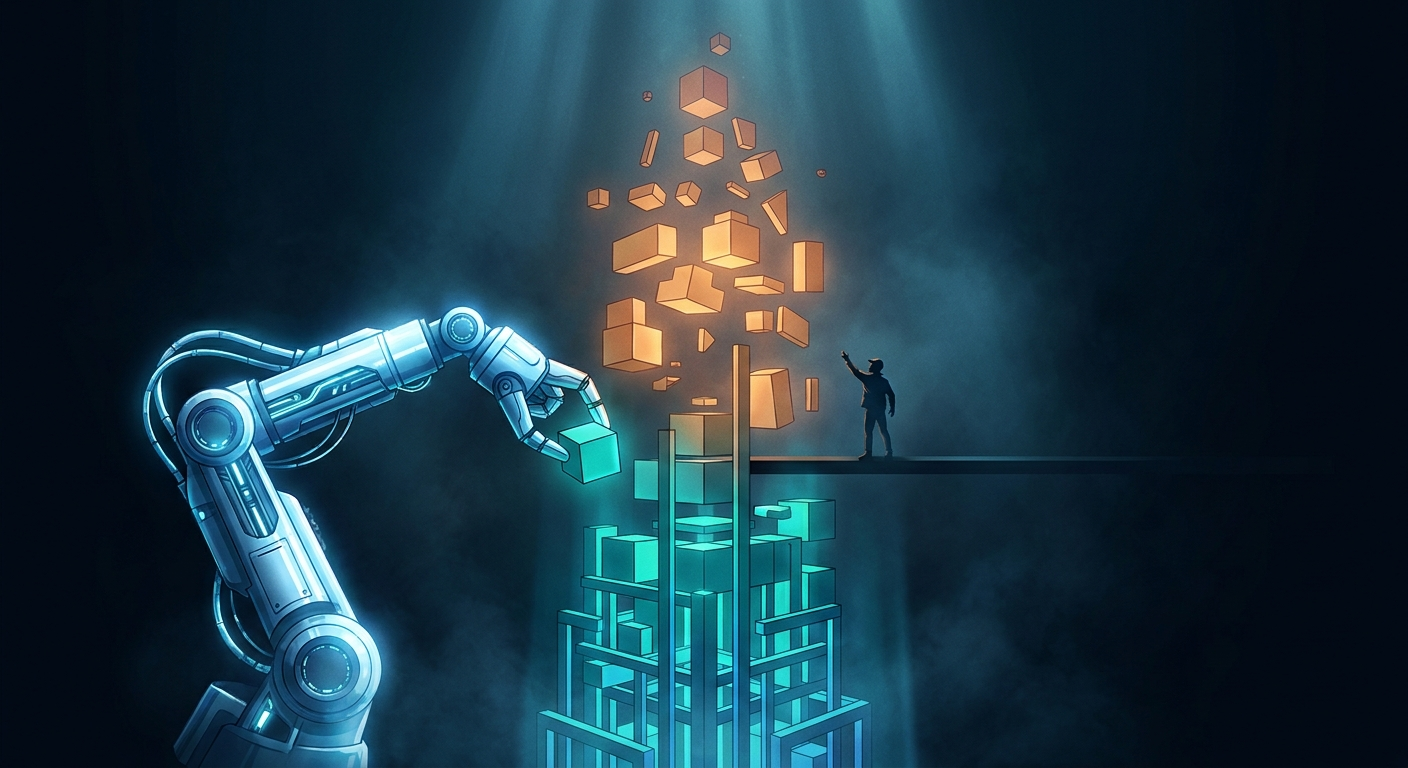
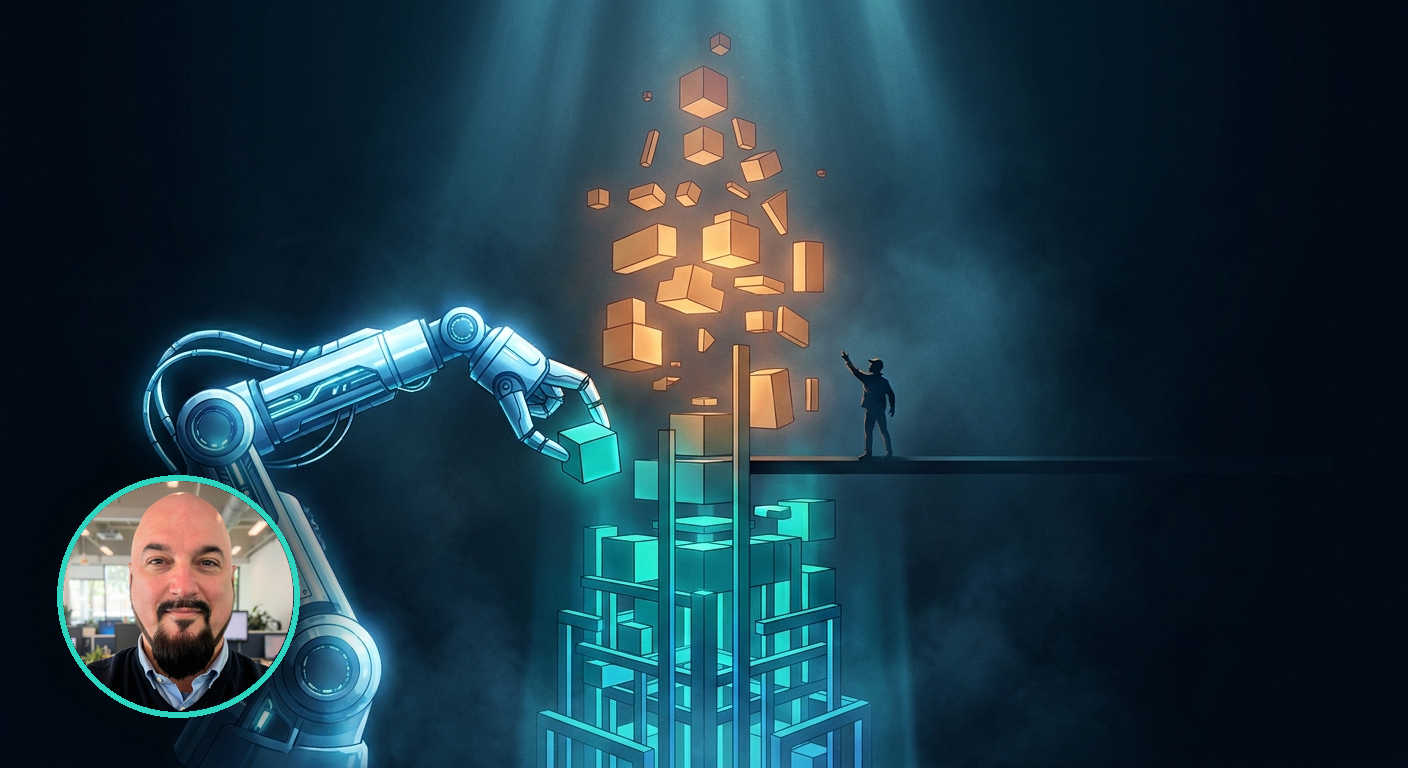
Point the number badges at evidence, and put the author on the hero
Truthfulness:
- The CNCF-components badge linked to #what-got-built, a narrative section
  that never enumerates 27. It now points at the BUILD-SPEC section that
  shows the arithmetic (21 scored ArgoCD Applications + 4 foundation +
  2 pattern = 27), so a reader can actually check the headline number.
- The EKS-clusters badge linked to kcd-texas-provisioning-README.md, which
  does not contain the figure 62. It now points at the infrastructure
  section, which states and explains it.

Presentation:
- Composite the author portrait onto the README hero, cropped to head and
  shoulders rather than to the source photo, over a blurred plate with a
  palette accent ring.

Changed region(s): [[0.0312, 0.5625, 0.25, 0.9688]]

diff --git a/README.md b/README.md
@@ -8,10 +8,10 @@ Delivered at **[KCD Texas 2026](https://kcd-texas-2026.sessionize.com/session/11
 
 [![Event](https://img.shields.io/badge/KCD_Texas-15_May_2026-0b7285)](https://kcd-texas-2026.sessionize.com/session/1149914)
 [![Phases](https://img.shields.io/badge/phases-7-informational)](spec/BUILD-SPEC.md)
-[![Components](https://img.shields.io/badge/CNCF_components-27-informational)](#what-got-built)
+[![Components](https://img.shields.io/badge/CNCF_components-27-informational)](spec/BUILD-SPEC.md#how-the-27-components-are-deployed)
 [![Applications](https://img.shields.io/badge/ArgoCD_Applications-32-informational)](gitops/apps)
 [![Gates](https://img.shields.io/badge/pytest_gates-49-success)](tests)
-[![Clusters](https://img.shields.io/badge/EKS_clusters_provisioned-62-orange)](kcd-texas-provisioning-README.md)
+[![Clusters](https://img.shields.io/badge/EKS_clusters_provisioned-62-orange)](#the-infrastructure-behind-it)
 [![License](https://img.shields.io/badge/license-MIT-blue)](LICENSE)
 
 📊 **[Results](#results)** · 🎤 **[Slides (PDF)](slides/kcd-texas-2026-the-90-minute-idp-as-presented.pdf)** · 🧪 **[The spec](spec/BUILD-SPEC.md)** · 📋 **[Scorecard](scorecard/results/presenter-2026-05-15.md)** · 🗺 **[What's next](spec/ROADMAP-NEXT-GEN-PHASES.md)**
